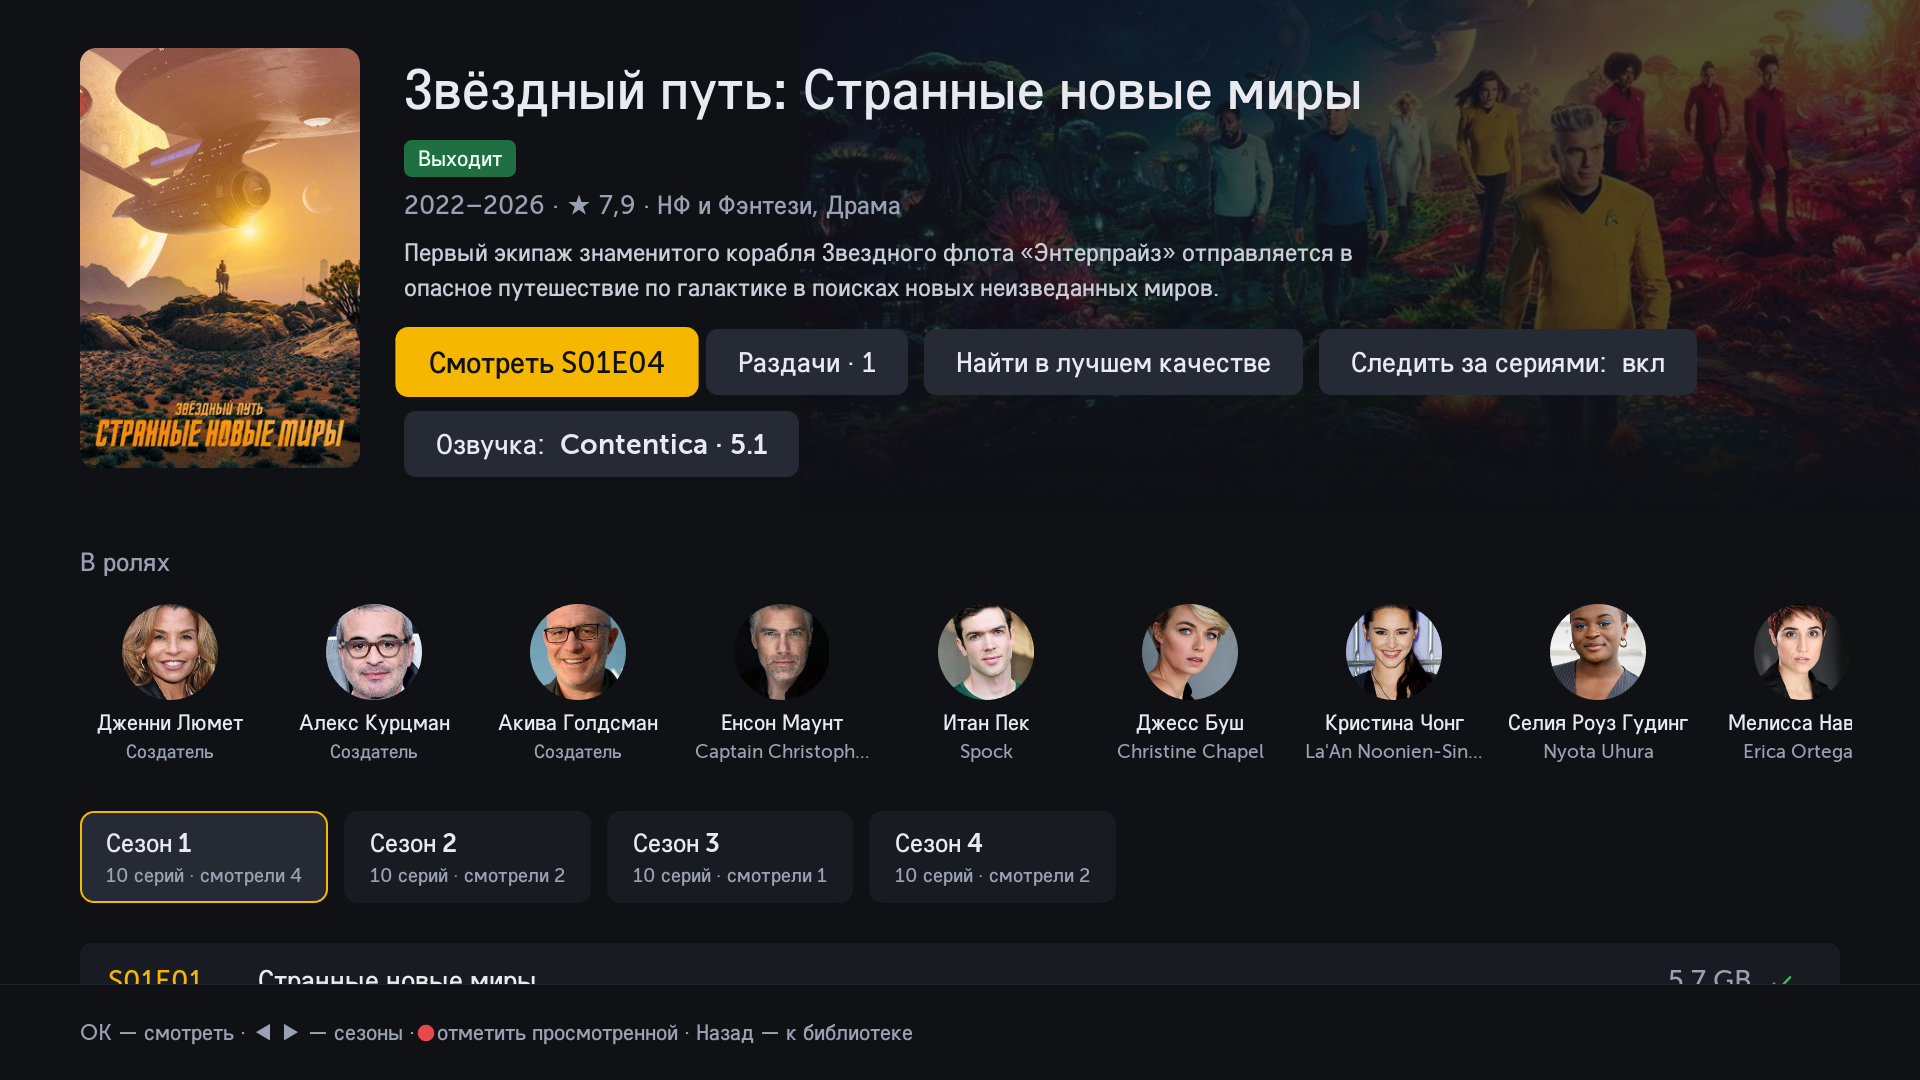
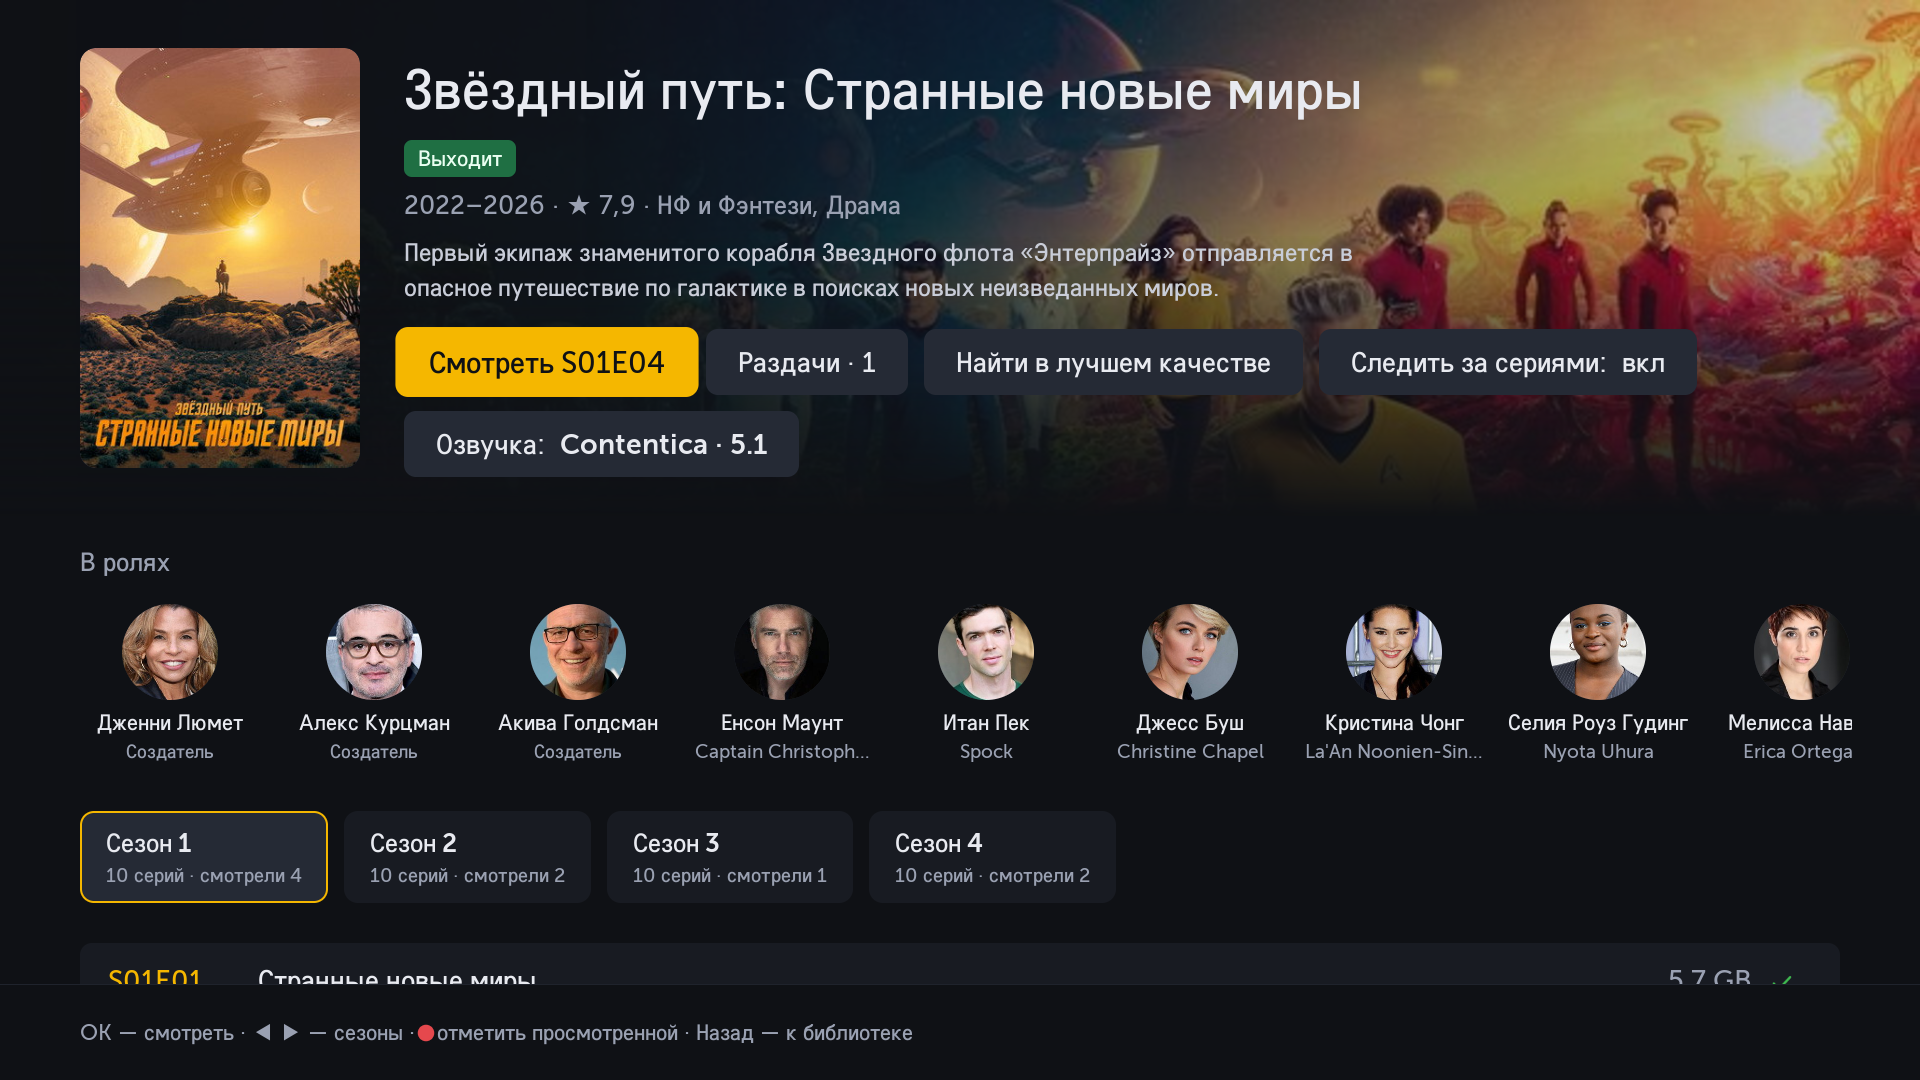
release: 0.19.0 screenshots with the new backdrop; changelog line

Changed region(s): [[0.4375, 0.0, 1.0, 0.4583]]

diff --git a/CHANGELOG.md b/CHANGELOG.md
@@ -14,6 +14,7 @@
 - [tv] Адрес TorrServer вводится своей клавиатурой OMP (цифры, «.», «:», http://, https://), очищается от похожих символов клавиатуры ТВ; на Android TV — подсказка про VPN, если сервер не отвечает
 - [phone] Адрес сервера вводится своей клавиатурой OMP внизу экрана
 - [atv] 2160 Player как плеер для видео (Настройки → «Плеер для видео»): с местом остановки, пропуском заставки и всеми сериями раздачи
+- [tv] Карточки «Обзора» и экран сериала: кадр на весь верх экрана с мягким затемнением
 - [tv] Под логотипом — название устройства («Dune HD», имя телевизора); подписи кнопок верхней панели — плашкой под кнопкой
 - В FAQ: подключение и установка на Xiaomi, «ТВ не видит TorrServer, а телефон видит»; у бета-версий на иконке полоса BETA
 

diff --git a/CHANGELOG.en.md b/CHANGELOG.en.md
@@ -16,6 +16,7 @@ The English translation covers the latest versions only; the full history (in Ru
 - [tv] The TorrServer address has OMP's own keypad (digits, ".", ":", http://, https://) and is cleaned of TV-keyboard look-alikes; Android TV hints about a VPN when no server answers
 - [phone] The server address has OMP's own keypad docked at the bottom
 - [atv] 2160 Player as the video player (Settings, Video player): with the resume point, skipped intros and all episodes of the release
+- [tv] Discover cards and the series screen: the backdrop spans the top of the screen with soft fades
 - [tv] The device name under the logo ("Dune HD", the TV's name); top bar button labels show as a chip under the button
 - FAQ: connecting and installing on Xiaomi, "The TV cannot reach TorrServer but the phone can"; betas have a BETA band on the icon
 
